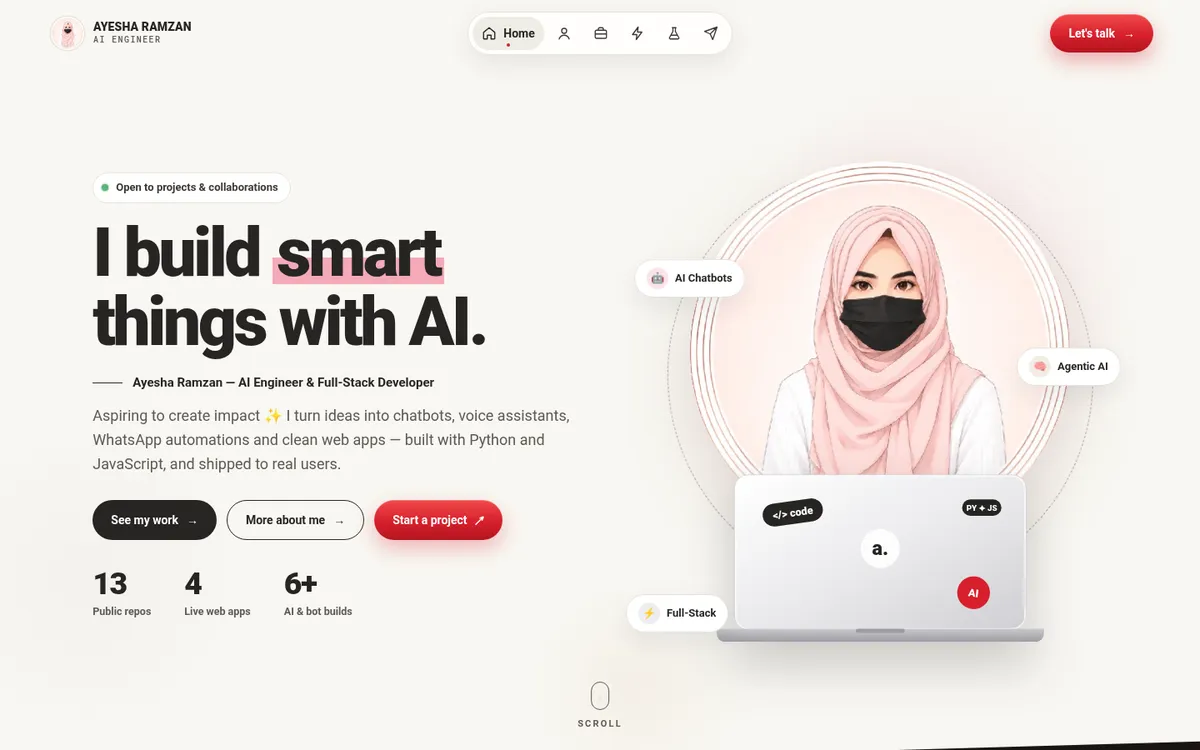
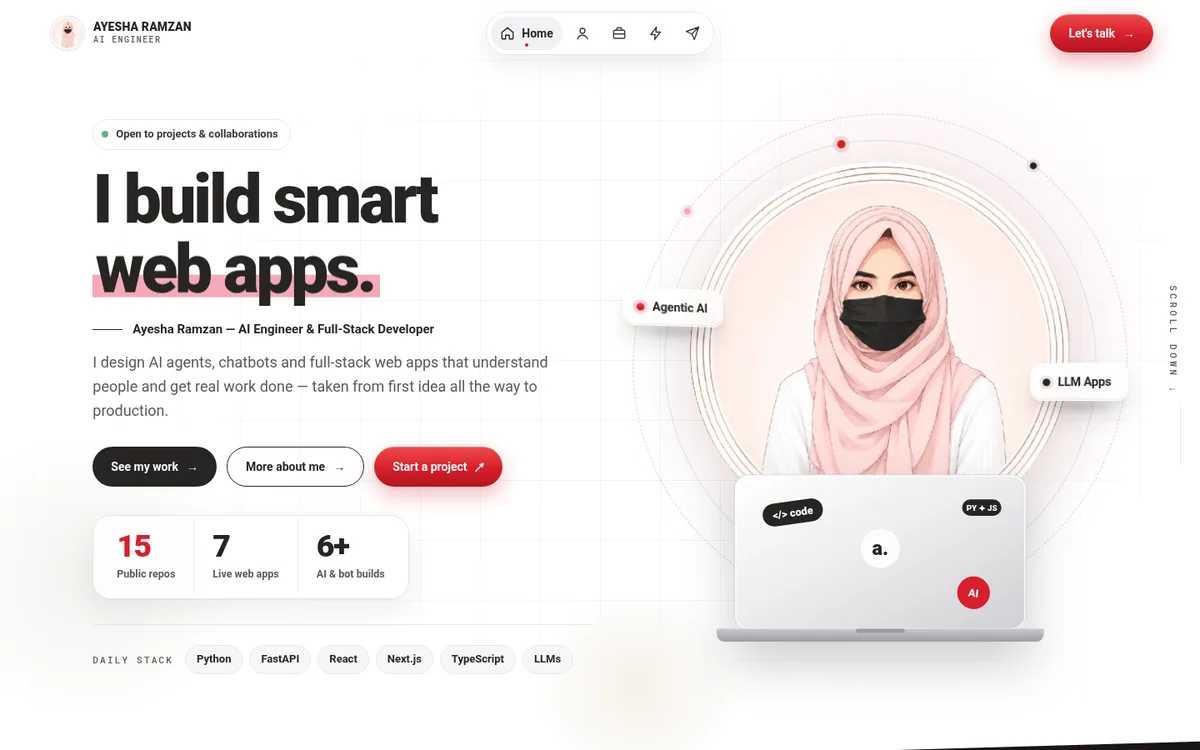
Update README and preview image

diff --git a/README.md b/README.md
@@ -8,13 +8,15 @@ Personal portfolio of **Ayesha Ramzan**, AI Engineer & Full-Stack Developer.
 
 ## Pages
 
-- **Home** — intro, selected work, services, lab projects and contact
-- **About** — story, toolkit and how I work
+- **Home** — hero, about, featured work, services, how I work, FAQ
+- **About** — story, stats, toolkit and working principles
+- **Work** — all projects, plus experiments from the lab
+- **Services** — what I offer, project process and toolkit
 - **Contact** — project form that opens a pre-filled email
 
 ## Built with
 
-Plain HTML, CSS and JavaScript — no build step. GSAP powers the desktop scroll animations; phones get lightweight CSS animations instead.
+Plain HTML, CSS and JavaScript — no build step. GSAP powers the desktop scroll animations; phones get lightweight CSS animations instead. Deployed on Vercel and GitHub Pages.
 
 - Responsive from 320px phones to wide desktops
 - Accessible (Lighthouse accessibility 100), SEO 100, best practices 100
